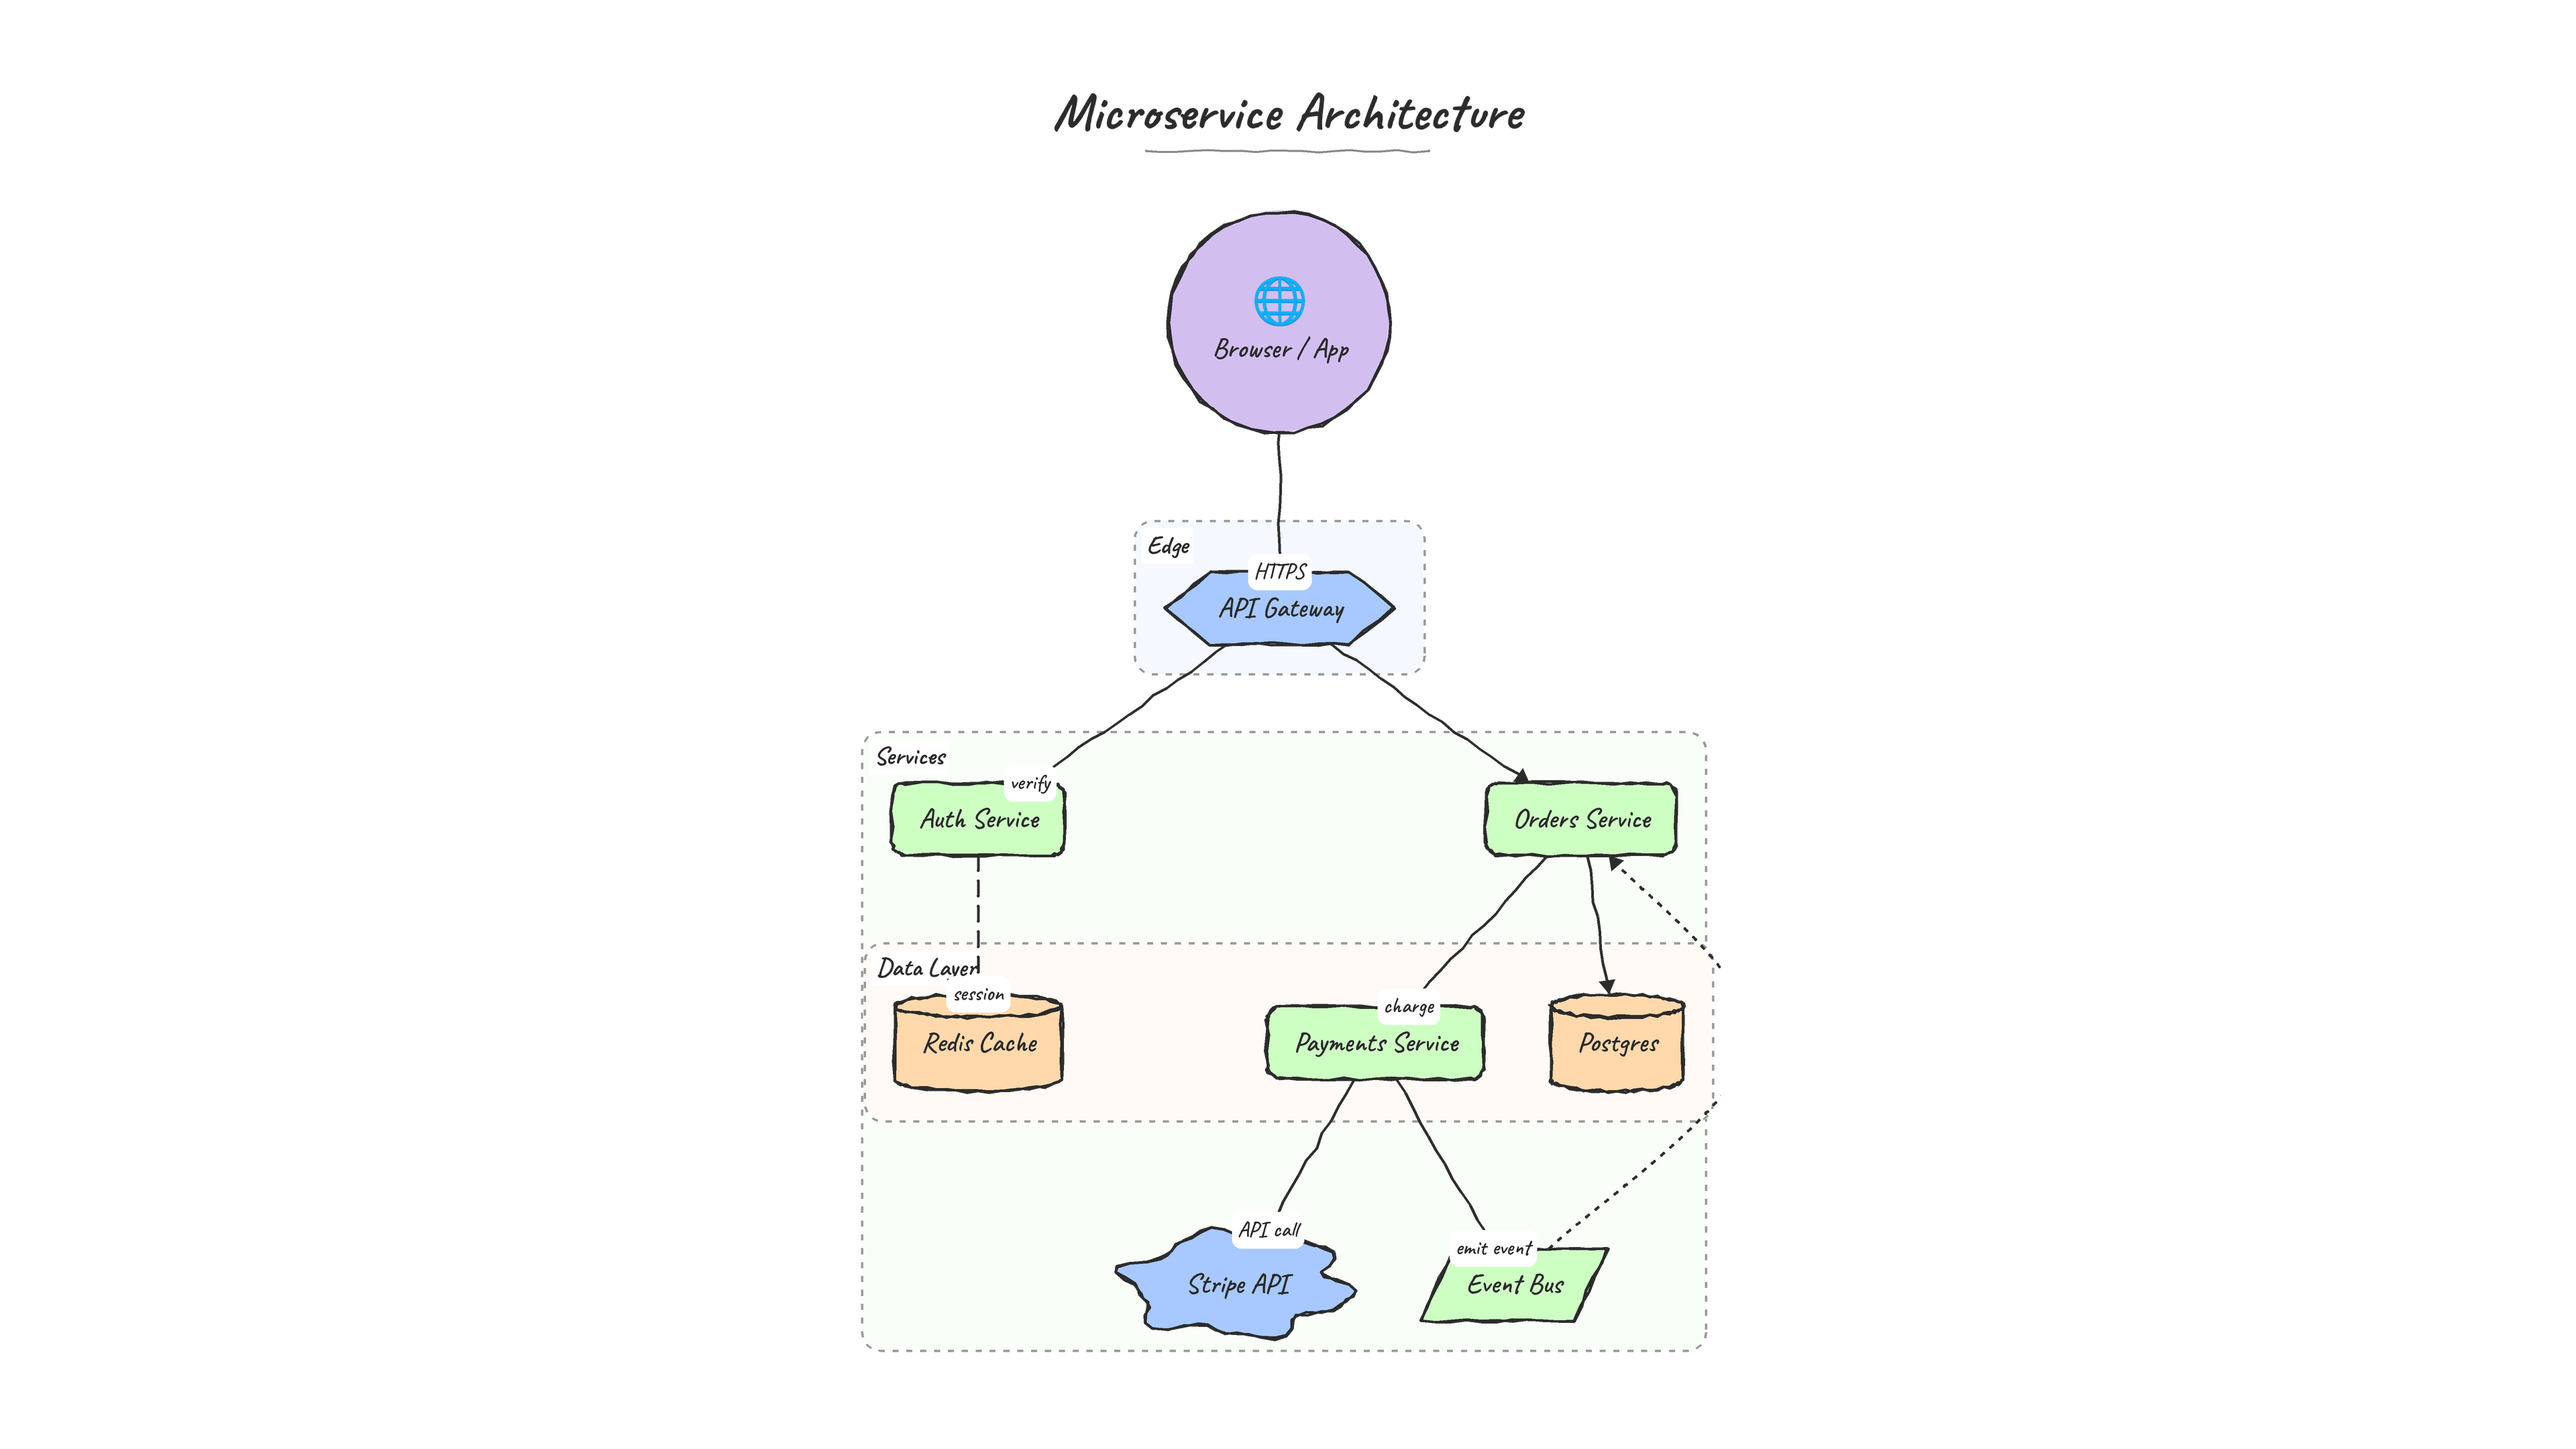
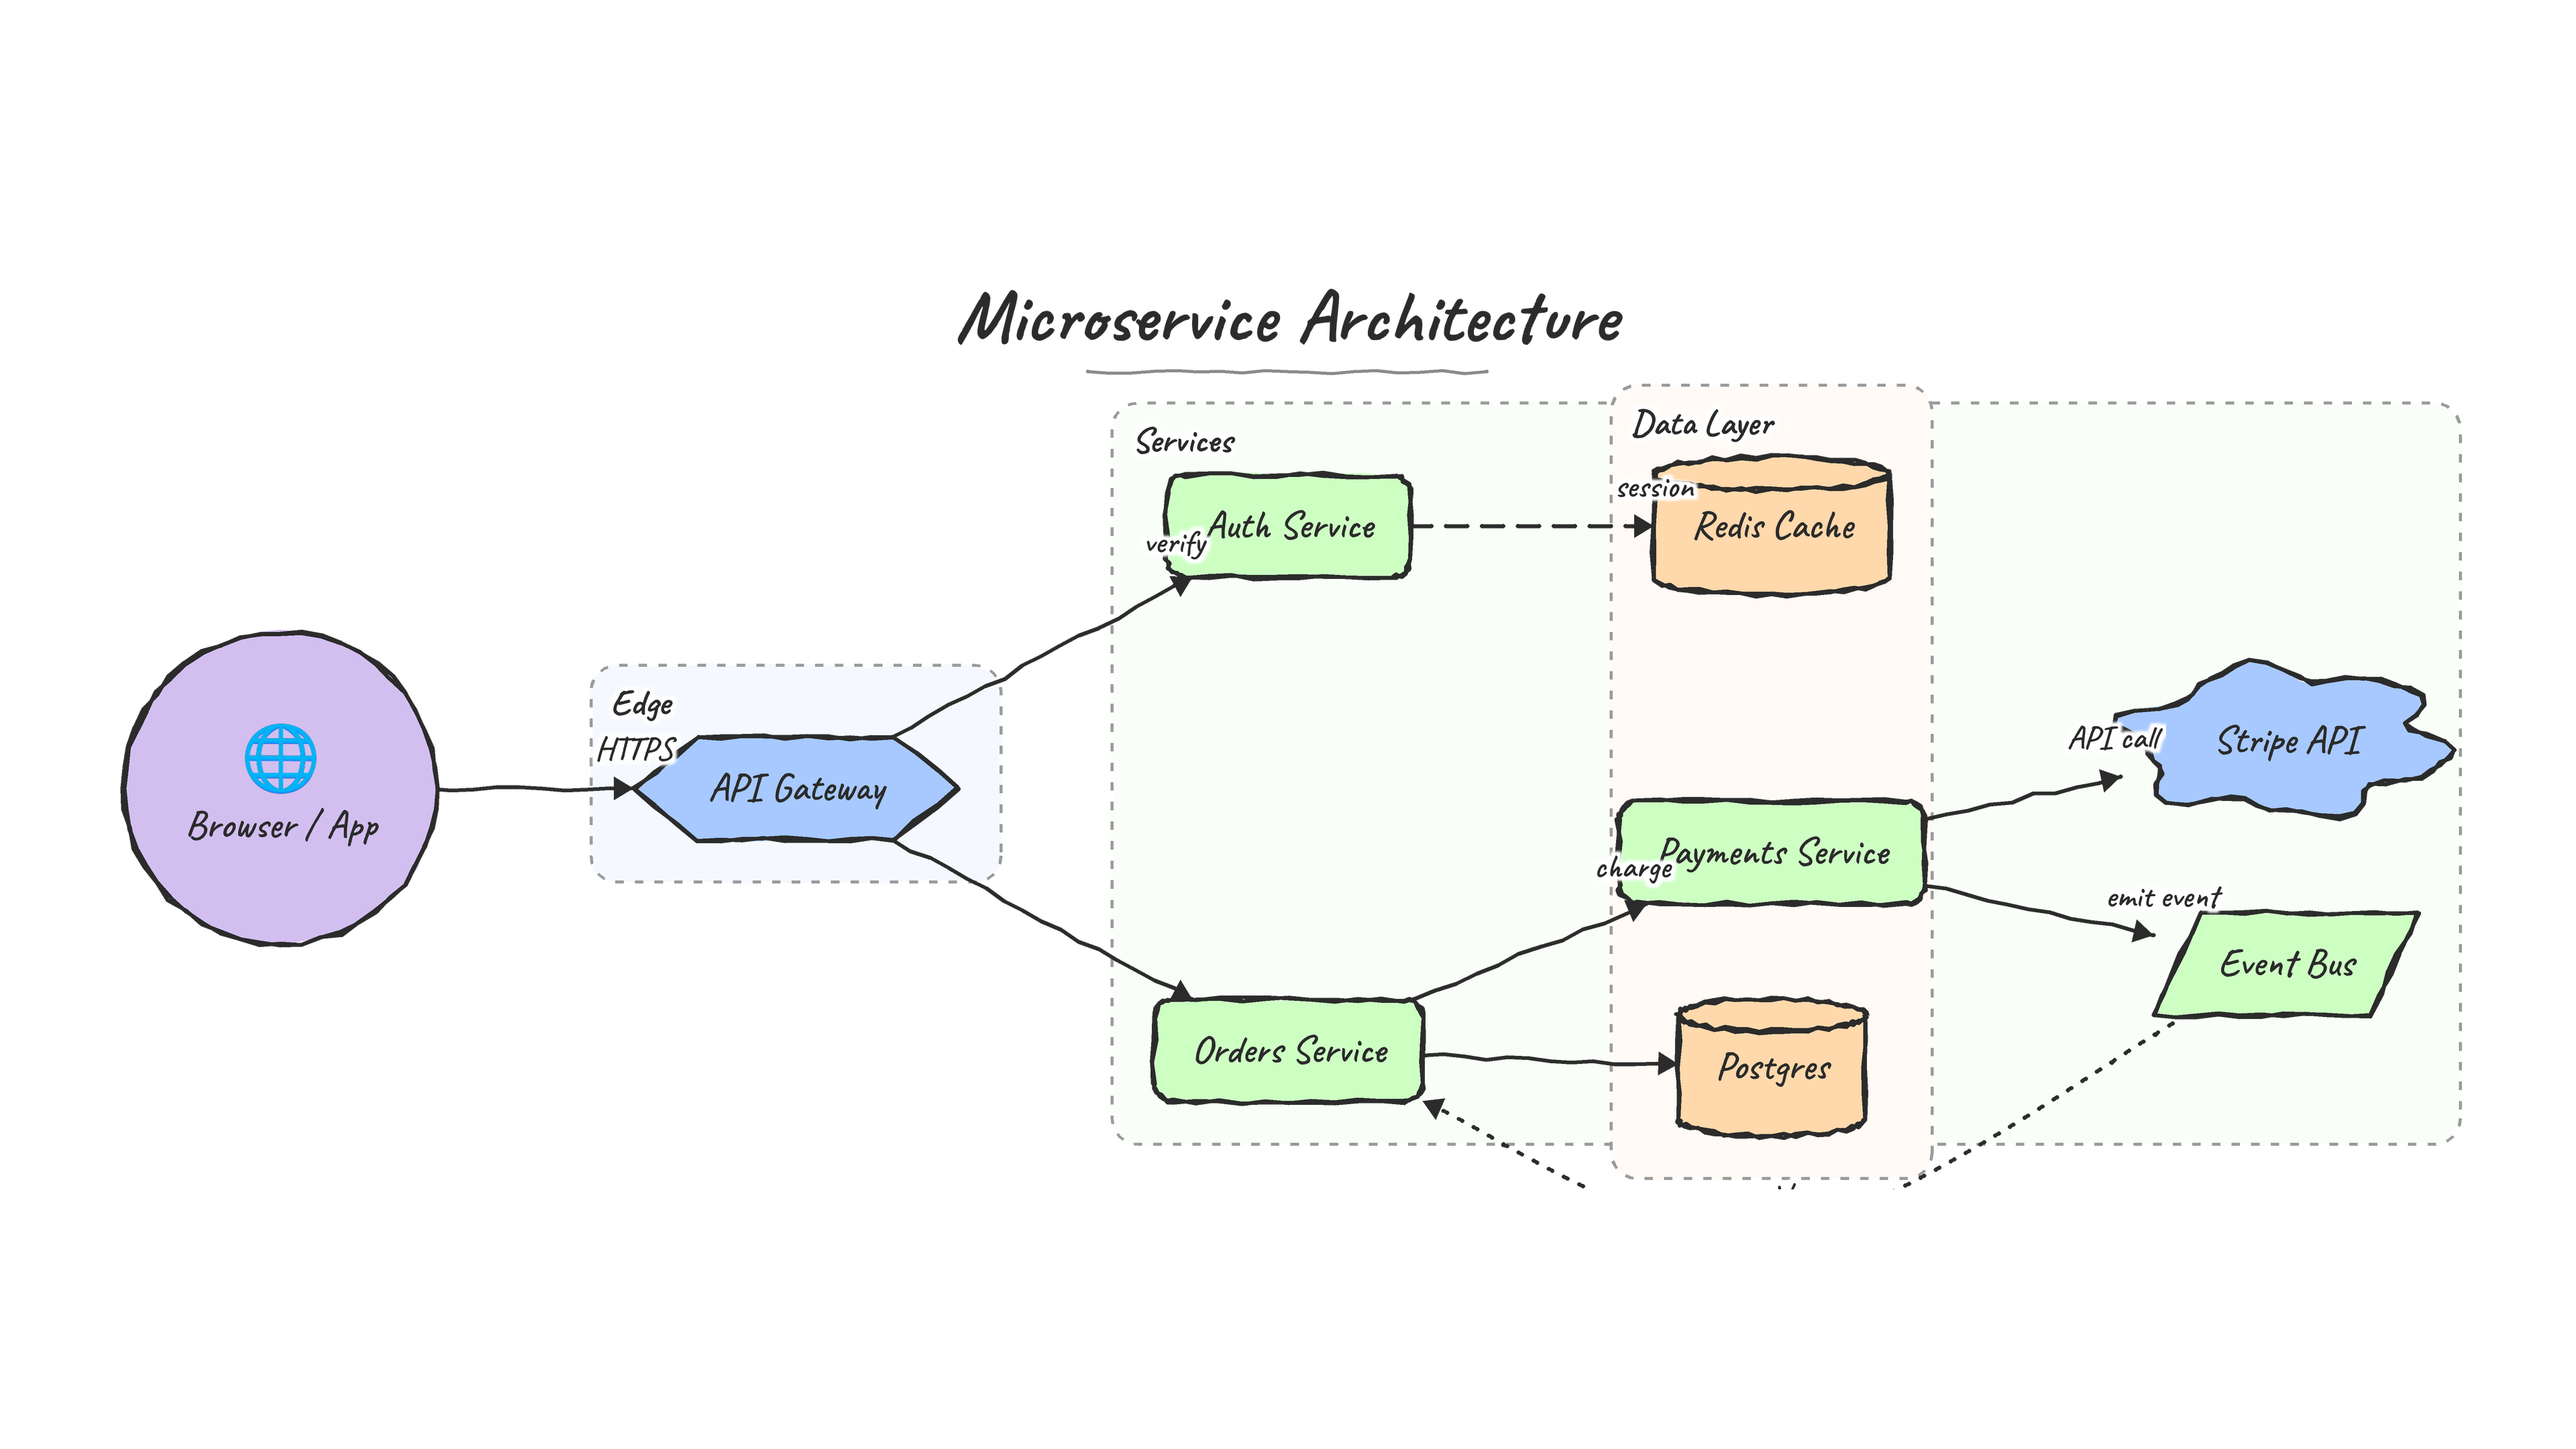
Auto-orient to fill 16:9 and clean up edge labels
- Lay out in both the requested direction and its 90-degree rotation,
  keep whichever fills the frame better: tall flows now go sideways and
  make full use of the wide 16:9 canvas.
- Replace boxy white label pills with a soft white halo (knockout) and
  float each edge label just off the line, so labels are larger, cleaner,
  and never sit on top of a node's text.

Claude-Session: https://claude.ai/code/session_01PkQ793Mrcet6GuHUUkKXnM

diff --git a/flowblow/raster.py b/flowblow/raster.py
@@ -12,12 +12,12 @@ import math
 import random
 from typing import List, Optional, Sequence, Tuple
 
-from PIL import Image, ImageDraw
+from PIL import Image, ImageDraw, ImageFilter
 
 from .content import Block, get_font, layout_block, render_emoji
 from .layout import PlacedNode, layout_diagram
 from .mathtex import render_math
-from .models import Diagram, EdgeStyle, Shape
+from .models import Diagram, Direction, EdgeStyle, Shape
 
 # ---- palette (shared look with the HTML renderer) -------------------------
 PALETTE = [
@@ -161,6 +161,7 @@ class _Drawer:
         self.d = ImageDraw.Draw(img)
         self.unit = unit            # layout units -> output px
         self.ox, self.oy = ox, oy   # output origin offset
+        self.accent = ink           # ink colour as hex string
         self.ink = hex_rgba(ink)
         self.stroke = max(1.4, 2.4 * unit)
         self.amp = 1.5 * unit
@@ -243,6 +244,26 @@ class _Drawer:
                 elif r.kind == "icon":
                     self.blit(render_emoji(r.payload), rx + (r.w * u) / 2, yc, r.h * u)
             cur_y += line_h * spacing
+
+    def label_with_halo(self, blk: Block, cx: float, cy: float, weight: int,
+                        color: str, halo=(255, 255, 255)):
+        """Draw a label with a soft white knockout so it reads over any line
+        (no boxy pill)."""
+        u = self.unit
+        pad = int(round(5 * u)) + 2
+        w = max(1, int(math.ceil(blk.w * u)) + 2 * pad)
+        h = max(1, int(math.ceil(blk.h * u)) + 2 * pad)
+        tile = Image.new("RGBA", (w, h), (0, 0, 0, 0))
+        sub = _Drawer(tile, u, 0, 0, self.accent)
+        sub.text_block(blk, w / 2, h / 2, weight, color)
+        # build a dilated, blurred white halo from the text's alpha
+        r = max(1, int(round(2.4 * u)))
+        alpha = tile.getchannel("A").filter(ImageFilter.MaxFilter(2 * r + 1))
+        alpha = alpha.filter(ImageFilter.GaussianBlur(max(0.6, u * 0.7)))
+        halo_img = Image.new("RGBA", tile.size, halo + (255,))
+        halo_img.putalpha(alpha)
+        composed = Image.alpha_composite(halo_img, tile)
+        self.img.alpha_composite(composed, (int(round(cx - w / 2)), int(round(cy - h / 2))))
 
 
 # ---------------------------------------------------------------------------
@@ -329,12 +350,9 @@ def _draw_scene(diagram: Diagram, layout, blocks, unit: float,
         if meta and meta.label:
             gb = layout_block(meta.label, size=diagram.font_size * 0.92, weight=700)
             gb.size = diagram.font_size * 0.92
-            lx = x0 + gb.w * unit / 2 + 10 * unit
-            ly = y0 + gb.h * unit / 2 + 6 * unit
-            dr.d.rectangle([lx - gb.w * unit / 2 - 4 * unit, ly - gb.h * unit / 2,
-                            lx + gb.w * unit / 2 + 4 * unit, ly + gb.h * unit / 2],
-                           fill=(255, 255, 255, 200))
-            dr.text_block(gb, lx, ly, 700, diagram.accent)
+            lx = x0 + gb.w * unit / 2 + 12 * unit
+            ly = y0 + gb.h * unit / 2 + 8 * unit
+            dr.label_with_halo(gb, lx, ly, 700, diagram.accent)
 
     # --- edges --- (labels are deferred so nodes never hide them)
     deferred_labels: List[Tuple[Block, Point]] = []
@@ -380,13 +398,24 @@ def _draw_scene(diagram: Diagram, layout, blocks, unit: float,
         if spec.bidirectional:
             arrow(sampled[0], sampled[1])
 
-        # edge label (drawn later, on top of everything)
+        # edge label (drawn later, on top of everything), floated just off the
+        # line so it never sits on top of a node's own text.
         if spec.label:
-            mid = sampled[len(sampled) // 2]
-            lb = layout_block(spec.label, size=diagram.font_size * 0.78, weight=600,
+            i = len(sampled) // 2
+            mid = sampled[i]
+            a = sampled[max(0, i - 1)]
+            b = sampled[min(len(sampled) - 1, i + 1)]
+            dx, dy = b[0] - a[0], b[1] - a[1]
+            L = math.hypot(dx, dy) or 1.0
+            perp = (-dy / L, dx / L)
+            if perp[1] > 0:                # push to the "upper" side
+                perp = (-perp[0], -perp[1])
+            lb = layout_block(spec.label, size=diagram.font_size * 0.84, weight=600,
                               max_width=diagram.font_size * 12)
-            lb.size = diagram.font_size * 0.78
-            deferred_labels.append((lb, mid))
+            lb.size = diagram.font_size * 0.84
+            off = lb.h * unit * 0.62 + 7 * unit
+            pos = (mid[0] + perp[0] * off, mid[1] + perp[1] * off)
+            deferred_labels.append((lb, pos))
 
     # --- nodes ---
     for nid, pn in layout.nodes.items():
@@ -413,15 +442,9 @@ def _draw_scene(diagram: Diagram, layout, blocks, unit: float,
         blk = blocks[nid]
         dr.text_block(blk, cx, cy, 600, diagram.accent)
 
-    # --- edge labels on top ---
+    # --- edge labels on top (soft halo, no boxy pill) ---
     for lb, mid in deferred_labels:
-        bw, bh = lb.w * unit, lb.h * unit
-        pad = 5 * unit
-        dr.d.rounded_rectangle(
-            [mid[0] - bw / 2 - pad, mid[1] - bh / 2 - pad / 2,
-             mid[0] + bw / 2 + pad, mid[1] + bh / 2 + pad / 2],
-            radius=8 * unit, fill=(255, 255, 255, 225))
-        dr.text_block(lb, mid[0], mid[1], 600, diagram.accent)
+        dr.label_with_halo(lb, mid[0], mid[1], 600, diagram.accent)
 
 
 def _draw_cylinder(dr: _Drawer, cx, cy, w, h, fill, seed):
@@ -450,9 +473,21 @@ def _draw_note_fold(dr: _Drawer, cx, cy, w, h):
 # ---------------------------------------------------------------------------
 # Public entry point
 # ---------------------------------------------------------------------------
+_ROTATE = {Direction.TB: Direction.LR, Direction.LR: Direction.TB,
+           Direction.BT: Direction.RL, Direction.RL: Direction.BT}
+
+
+def _scene_size(layout, title_block, fs):
+    top = (title_block.h + fs * 1.1) if title_block else 0.0
+    scene_w = max(layout.width, title_block.w if title_block else 0)
+    scene_h = layout.height + top
+    return scene_w, scene_h, top
+
+
 def render_png_bytes(diagram: Diagram, width: int = 1920, height: int = 1080,
                      scale: float = 2.0, transparent: bool = True,
-                     pad_frac: float = 0.05, supersample: int = 2) -> bytes:
+                     pad_frac: float = 0.05, supersample: int = 2,
+                     auto_orient: bool = True) -> bytes:
     import io
 
     fs = diagram.font_size
@@ -462,24 +497,33 @@ def render_png_bytes(diagram: Diagram, width: int = 1920, height: int = 1080,
         b = blocks[node.id]
         return _inflate(b.w, b.h, node.shape, font_size)
 
-    layout = layout_diagram(diagram, measure=measure)
-
-    # scene = optional title band + diagram (in layout units)
-    W, H = layout.width, layout.height
     title_block = None
-    top = 0.0
     if diagram.title:
         title_block = layout_block(diagram.title, size=fs * 1.9, weight=700)
         title_block.size = fs * 1.9
-        top = title_block.h + fs * 1.1
-    scene_w = max(W, title_block.w if title_block else 0)
-    scene_h = H + top
-    diagram_ox = (scene_w - W) / 2
 
-    # fit into the frame
     fw, fh = int(width * scale), int(height * scale)
     pad = pad_frac * min(fw, fh)
-    fit = min((fw - 2 * pad) / scene_w, (fh - 2 * pad) / scene_h)
+
+    # Try the requested orientation and its 90-degree rotation, then keep
+    # whichever fills the frame best -- so a tall flow is laid out sideways to
+    # make the most of a wide 16:9 canvas.
+    candidates = [diagram.direction]
+    if auto_orient and _ROTATE[diagram.direction] not in candidates:
+        candidates.append(_ROTATE[diagram.direction])
+
+    best = None
+    for direction in candidates:
+        diagram.direction = direction
+        cand_layout = layout_diagram(diagram, measure=measure)
+        sw, sh, top = _scene_size(cand_layout, title_block, fs)
+        cand_fit = min((fw - 2 * pad) / sw, (fh - 2 * pad) / sh)
+        if best is None or cand_fit > best[0] + 1e-9:
+            best = (cand_fit, direction, cand_layout, sw, sh, top)
+
+    fit, chosen, layout, scene_w, scene_h, top = best
+    diagram.direction = chosen
+    diagram_ox = (scene_w - layout.width) / 2
 
     ss = max(1, supersample)
     unit = fit * ss
